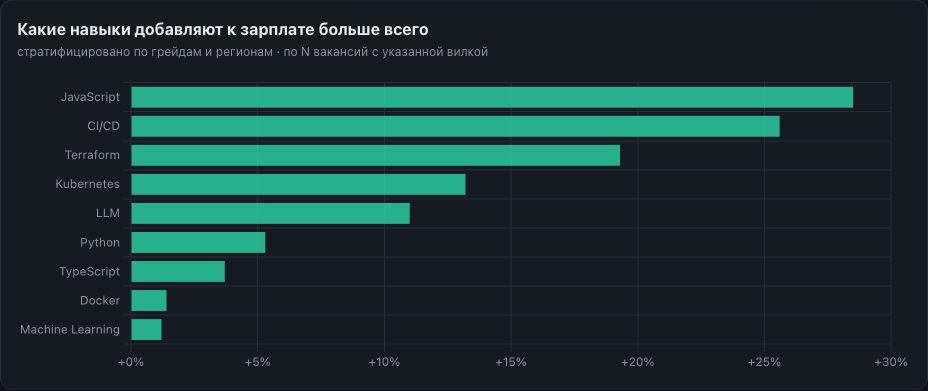
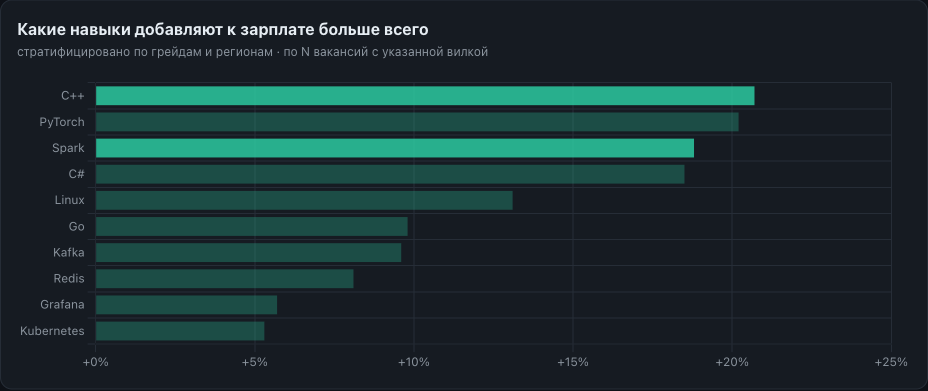
docs: journal Wave 1 results + refreshed screenshots on cleaned data

diff --git a/PLAN.md b/PLAN.md
@@ -441,6 +441,30 @@ PLAN переписан под ATS (§1–§10): USD-методика, seniority
 
 **Осталось (гейты, не код):** (1) eval-набор 25 примеров разметить по реальным JD → проверка владельцем → включить llm-eval в ci.yml; (2) полный дренаж LLM-очереди (~14 дней в проде, free-tier ~1000 вызовов/день); (3) этап 10 — 7 дней зелёных ранов + пост.
 
+### Волна 1 улучшений (docs/IMPROVEMENTS.md) — 2026-07-19/20 — ✅ ВЫПОЛНЕНА ЦЕЛИКОМ
+
+Мультиагентный брейншторм (12 агентов, 71 идея, 3 судьи) нашёл воспроизводимые дефекты; все 10 пунктов Волны 1 исправлены, плюс 9 пунктов Волны 2, вошедших в те же PR. Владелец дал сквозное разрешение («делай по порядку не спрашивая») — STOP-гейты 1.1/1.8 исполнены как «сделать и показать цифры».
+
+**1.1 Контаминация флагмана (главный дефект).** `skill_premium` выбрасывал множество `processed`, и вакансии, до которых LLM не дошёл, шли в пул «без навыка». Все опубликованные премии были завышены ~вдвое. До/после на одних данных: PyTorch +32.4→+16.4, C++ +29.6→+14.4, Go +28.0→+14.8, **Python +18.2→+2.2 (и CI пересекает ноль)**. Добавлен стратифицированный бутстрэп-CI (1000 реплик, фиксированный сид → воспроизводимость); `median_without_usd` убран из meta (пул поперёк страт противоречил столбцу). Приёмка: независимый duckdb-пересчёт C++ дал 14.4444% против 14.4% в meta.json — совпало.
+
+**1.2/1.3/1.9 Парсеры зарплат.** Ashby смешивал USD-min с JPY-max (ratio 1293) → парсинг по тирам с выбором одной валюты (14 конфликтов за прогон). Greenhouse брал «первые два $» из всего текста (бонусы, 401k, раунды инвестиций) → якорные пары рядом с salary-словами + гарды правдоподобия (203 пары отбраковано). `_PAIR` научен запятым, переносу суффикса («$150-200K»), символам £/€ и коду «GBP 90,000». Приёмки на свежем снапшоте: строк с max/min>20 — **0**; GH-строк с max/min>3 — **31 → 0**; EU-строк с вилкой **72 → 124** (GBP 31, EUR 11 из текста). **Побочный эффект честности: доля с вилкой 51% → 28%** — прежние 51% включали мусор.
+
+**1.4/1.6 Регионы и грейды.** `u\.s\.a?` внутри `\b…\b` никогда не матчил «U.S.»; «Tbilisi, Georgia» читался как US, «London, Ontario» как EU. Добавлены dotted-паттерн, коллизионный гард (Канада/Кавказ), city-only (Dublin/NYC/SF/Belgrade/Kyiv…). `seniority_of` научен нумералу `II|2` (уже зафиксирован в §3.6, но не был реализован); L5/IC3/«Engineer I/III» осознанно остаются unspecified; MTS — IC-титул, не staff+. Приёмки: **мид 16 → 92 строки**, из `other` мигрировало **96 строк**.
+
+**1.5 Очередь LLM.** Бюджет тратился в порядке фетча (все 700 размеченных — ashby A-L). Теперь порядок (has_salary, свежесть) + round-robin по ATS. Результат прогона: источников в выборке **3** (было 1), компаний 89, и **92% всех зарплатных вакансий размечены** (было ~11%). Доля зарплатных в дневном батче 59%, а не >80% из плана — потому что очередь зарплатных исчерпалась (осталась 141); порог писался под дофиксовые 2525.
+
+**1.7 Пакет честности (клиент).** «Новых за сутки» на дне-1 → «—»; hero-медиана при n<10 → «мало данных»; hero-навык требует n≥15 и CI выше нуля (**Go +14.8% n=119 вместо JavaScript +28.5% n=8**); знаменатель графика навыков подписан («доля от N размеченных, X% базы»); скрытые тонкие грейды названы; водяная подпись «день N из 7»; пустое состояние флагмана по §7 (<5 навыков).
+
+**1.8 Eval.** Написан детерминированный линтер (regex по каталогу, без LLM) — нашёл **5 фантомных лейблов** ровно там, где предсказал брейншторм (id=2 Git/Python, id=17 Python, id=22 C++) плюс id=7 LLM, и 7 пропущенных явных упоминаний (включая предсказанный id=12 «generative ai»→LLM). НЕ добавлены как лейблы: `GitLab`/`Git infrastructure` у id=17/20/22/24 — это имя компании-работодателя и её команд, а не требование навыка; `express`/`helm` — обычные английские слова. Набор расширен до **40** примеров (ashby AI-лабы), галлюцинации новых строк снимаются линтером автоматически. Гейт вынесен в отдельный `llm-eval.yml` (в ci.yml `paths-ignore: data/**` скрыл бы именно эти пуши). **Первый живой прогон: micro-F1 = 0.860, bootstrap CI [0.765, 0.928].** Бейдж в README.
+
+**1.10 + надёжность.** Volume-guard: сравнение с 7-дневными медианами по источникам, `VolumeGuardError` ДО записи партиций (полный отказ Greenhouse больше не запишется как обвал рынка); push-retry возвращал статус последней команды — три упавших пуша читались как зелёные, теперь честный exit 1; circuit-breaker пропускает целый ATS после 8 подряд отказов; timeout-minutes 90.
+
+**Из Волны 2 попутно:** бутстрэп-CI (п.1), лимит LLM 1200→5000 (п.2), не кэшировать NULL за пропущенные id и пустые описания (п.5), телеметрия экстракции в last_run.json (п.6), не сжигать бюджет на первом сбое — только на quota (п.7), Dependabot + верхние границы версий (п.8), деплой вне ETL-guard + пин wrangler@4 (п.9), timeout+circuit-breaker (п.10), MTS (п.11).
+
+**Состояние после прогона 2026-07-20:** 6484 tech-IC вакансии, 1822 с вилкой (28%), навыки у 43% базы и 92% зарплатных, медиана $228K. Флагман: значимы только **C++ +20.7% (n=55, CI [16.6, 24.5])** и Spark +18.8%; остальные 8 приглушены как статистически незначимые. Тесты 81 passed. Скриншоты пересняты.
+
+**Инфраструктурная находка (не баг проекта):** с машины владельца (Анкара) `tech-salary-radar.pages.dev` резолвится в 213.14.227.50 (турецкий ISP), внешние DNS 1.1.1.1/8.8.8.8 заблокированы — ISP-фильтр на `*.pages.dev`. Деплой при этом подтверждён Cloudflare API (production `7f7bb849`, коммит a135c15). Сайт жив для всех, кроме турецкого провайдера владельца — при проверках использовать VPN или прямой deployment-URL.
+
 ### Этап 8 деплой — ВЫПОЛНЕН (владелец залогинился в CF, попросил «сделай сам»)
 
 Git-интеграцию (OAuth GitHub-app в браузере) исполнитель делать не может → **прямой деплой через wrangler** (авторизован на аккаунт `310285…`). `wrangler pages project create tech-salary-radar` + `wrangler pages deploy site`. **САЙТ ЖИВОЙ: https://tech-salary-radar.pages.dev** — проверено в браузере (медиана $221K, флагман и все 6 графиков, 0 ошибок). og-теги + live-ссылка в README добавлены. **Отклонение от §2/§8 (git-интеграция без CF-токена):** direct-upload проект не подключить к git, поэтому авто-деплой = шаг в pipeline.yml `wrangler pages deploy` (заглушён без токена). `CLOUDFLARE_ACCOUNT_ID` в Secrets (не секретно, из URL). Для ежедневного авто-обновления владельцу создать **`CLOUDFLARE_API_TOKEN`** (scope Pages:Edit) в Secrets репо; без него пайплайн коммитит данные, но деплой пропускает (сайт до ручного `wrangler pages deploy`).